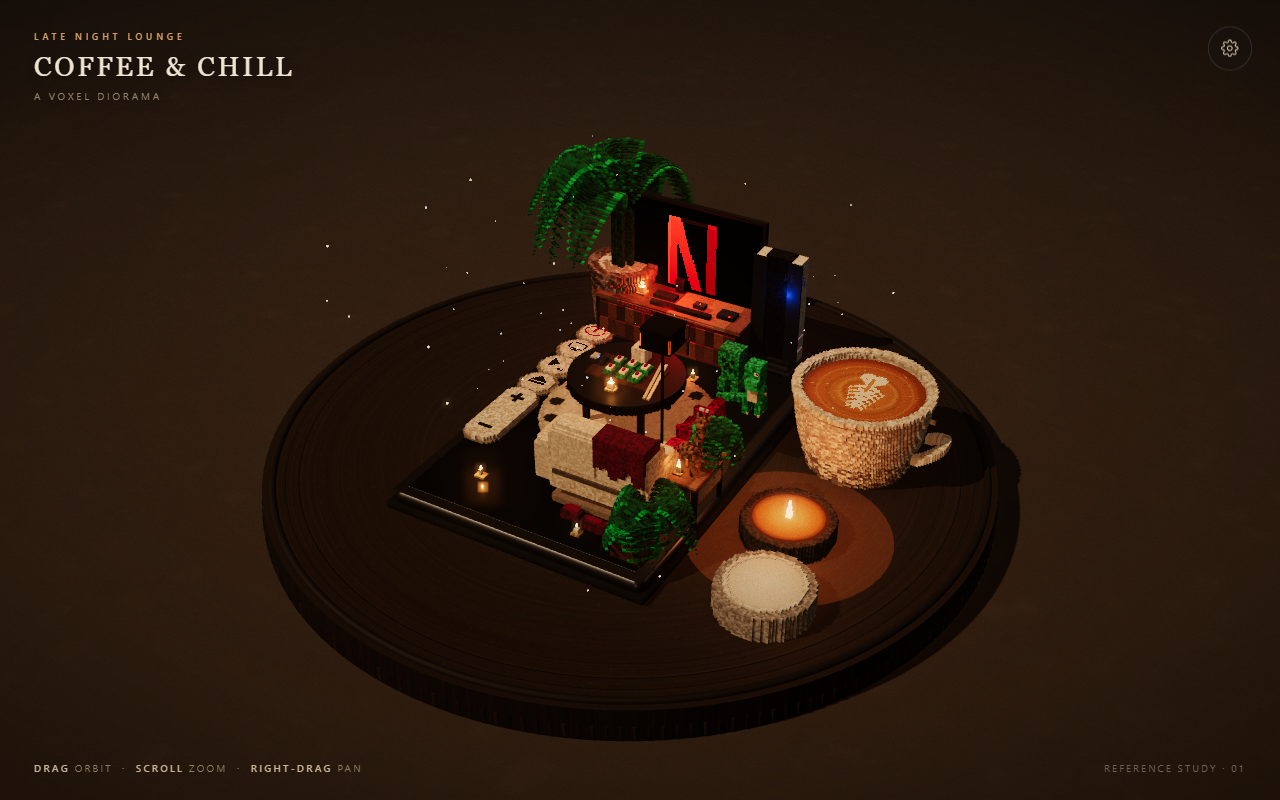
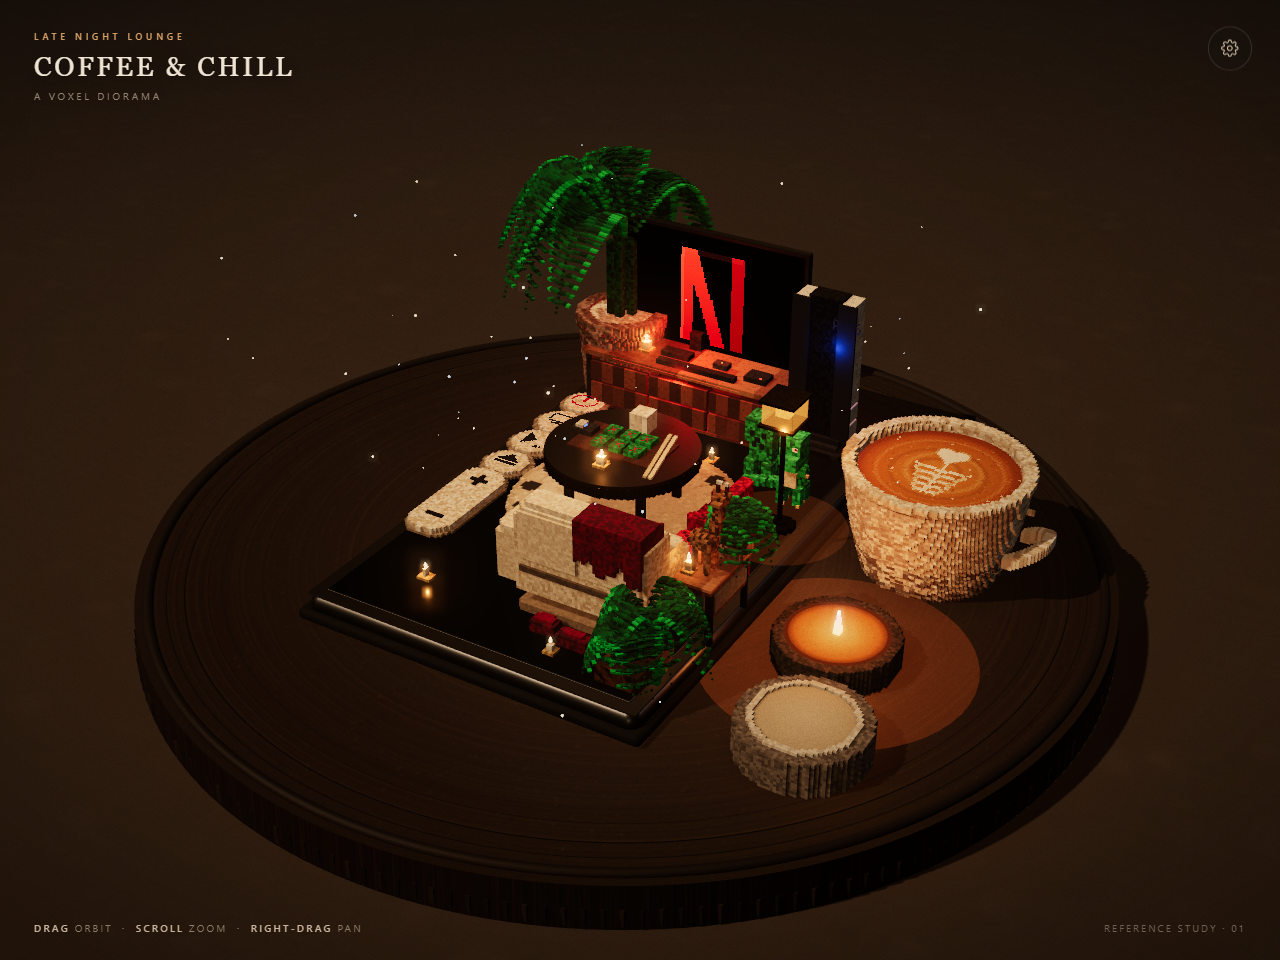
Refine voxel diorama: lantern, cards, latte art, lighting and camera

diff --git a/index.html b/index.html
@@ -1266,44 +1266,53 @@ function buildPS5() {
    Floor lamp with amber lantern
    ------------------------------------------------------------------ */
 function buildLamp() {
-  const x = 2.35, z = 1.25;
+  const x = 4.85, z = -2.1;
+  const headY = 5.6;
   // base
-  voxCyl(x, z, PLATFORM_TOP, PLATFORM_TOP + 0.18, 0.52, { pal: PAL.black, batch: 'metal', shell: true });
-  voxCyl(x, z, PLATFORM_TOP + 0.18, PLATFORM_TOP + 0.34, 0.22, { pal: PAL.black, batch: 'metal', shell: false });
+  voxCyl(x, z, PLATFORM_TOP, PLATFORM_TOP + 0.16, 0.5, { pal: PAL.black, batch: 'metal', shell: true });
+  voxCyl(x, z, PLATFORM_TOP + 0.16, PLATFORM_TOP + 0.3, 0.2, { pal: PAL.black, batch: 'metal', shell: false });
   // pole
-  voxBox(x - 0.075, PLATFORM_TOP + 0.3, z - 0.075, x + 0.075, 6.6, z + 0.075, [0x161513, 0x211e19], { batch: 'metal', shell: false });
+  voxBox(x - 0.065, PLATFORM_TOP + 0.26, z - 0.065, x + 0.065, headY - 0.55, z + 0.065, [0x161513, 0x211e19], { batch: 'metal', shell: false });
   // top bracket
-  voxBox(x - 0.34, 6.55, z - 0.34, x + 0.34, 6.75, z + 0.34, [0x1b1916, 0x28241f], { batch: 'metal', shell: false });
-  const headY = 7.2;
-  // cage frame
+  voxBox(x - 0.28, headY - 0.62, z - 0.28, x + 0.28, headY - 0.45, z + 0.28, [0x1b1916, 0x28241f], { batch: 'metal', shell: false });
+
+  // lantern cage: four corner posts only, leaving the amber panes exposed
   const frame = [0x171410, 0x221d17];
-  for (const side of [-1, 1]) {
-    voxBox(x + side * 0.68 - 0.06, 6.75, z - 0.68, x + side * 0.68 + 0.06, headY + 0.55, z + 0.68, frame, { batch: 'metal', shell: false });
-    voxBox(x - 0.68, 6.75, z + side * 0.68 - 0.06, x + 0.68, headY + 0.55, z + side * 0.68 + 0.06, frame, { batch: 'metal', shell: false });
+  const hw = 0.6;
+  for (const sx of [-1, 1]) {
+    for (const sz of [-1, 1]) {
+      voxBox(x + sx * hw - 0.045, headY - 0.45, z + sz * hw - 0.045, x + sx * hw + 0.045, headY + 0.45, z + sz * hw + 0.045, frame, { batch: 'metal', shell: false });
+    }
   }
-  voxBox(x - 0.78, 6.8, z - 0.78, x + 0.78, 6.9, z + 0.78, [0x1d1913, 0x2a241d], { batch: 'metal', shell: false });
-  voxBox(x - 0.78, headY + 0.5, z - 0.78, x + 0.78, headY + 0.62, z + 0.78, [0x1d1913, 0x2a241d], { batch: 'metal', shell: false });
-  // amber glass sides
-  for (const [ox, oz, w, d] of [[0, -0.72, 1.38, 0.04], [0, 0.72, 1.38, 0.04], [-0.72, 0, 0.04, 1.38], [0.72, 0, 0.04, 1.38]]) {
-    const glass = new THREE.Mesh(new THREE.BoxGeometry(w, 0.6, d),
-      new THREE.MeshPhysicalMaterial({ color: 0xff8b26, transparent: true, opacity: 0.42, roughness: 0.22, metalness: 0.0, emissive: 0xff6714, emissiveIntensity: 0.7, depthWrite: false, envMapIntensity: 0.7 }));
+  voxBox(x - hw - 0.09, headY - 0.52, z - hw - 0.09, x + hw + 0.09, headY - 0.39, z + hw + 0.09, [0x1d1913, 0x2a241d], { batch: 'metal', shell: false });
+  voxBox(x - hw - 0.09, headY + 0.39, z - hw - 0.09, x + hw + 0.09, headY + 0.52, z + hw + 0.09, [0x1d1913, 0x2a241d], { batch: 'metal', shell: false });
+
+  // four panes of glowing amber glass
+  const paneMat = new THREE.MeshBasicMaterial({
+    color: new THREE.Color(0.92, 0.34, 0.055), transparent: true, opacity: 0.52,
+    depthWrite: false, toneMapped: false,
+  });
+  for (const [ox, oz, w, d] of [[0, -hw + .03, hw * 2 - .1, 0.03], [0, hw - .03, hw * 2 - .1, 0.03], [-hw + .03, 0, 0.03, hw * 2 - .1], [hw - .03, 0, 0.03, hw * 2 - .1]]) {
+    const glass = new THREE.Mesh(new THREE.BoxGeometry(w, 0.8, d), paneMat);
     glass.position.set(x + ox, headY + 0.02, z + oz);
     turntable.add(glass);
   }
-  // glowing core + flame-ish element
-  voxBox(x - 0.3, 6.95, z - 0.3, x + 0.3, headY + 0.3, z + 0.3, [0xff9c30], {
-    batch: 'glow', shell: true, colorFn: (px, py, pz) => new THREE.Color(1.7, 0.72, 0.12).multiplyScalar(0.85 + hash(px, py, pz) * 0.4)
+  // hot inner source
+  voxBox(x - 0.24, headY - 0.24, z - 0.24, x + 0.24, headY + 0.3, z + 0.24, [0xff8d20], {
+    batch: 'glow', shell: true,
+    colorFn: (px, py, pz) => new THREE.Color(1.35, 0.52, 0.08).multiplyScalar(0.85 + hash(px, py, pz) * 0.35)
   });
-  addVox('glow', x, 7.25, z, 0.42, 0.5, 0.4, new THREE.Color(2.2, 1.2, 0.35));
-  const light = new THREE.PointLight(0xff9636, 26, 10, 2);
-  light.position.set(x, headY, z);
+  addVox('glow', x, headY + 0.08, z, 0.34, 0.46, 0.34, new THREE.Color(1.7, 0.85, 0.18));
+
+  const light = new THREE.PointLight(0xff9636, 16, 9, 2);
+  light.position.set(x, headY + 0.1, z);
   turntable.add(light);
   lightRig.lamp = light;
-  flicker.push({ light, base: 26, amt: 0.06, speed: 6.1, seed: 2 });
-  // slight pool of light on the table/rug below
+  flicker.push({ light, base: 16, amt: 0.06, speed: 6.1, seed: 2 });
+  // pool of light on the rug below
   const pool = new THREE.Mesh(
-    new THREE.CircleGeometry(3.1, 40),
-    new THREE.MeshBasicMaterial({ color: 0xff8a2e, transparent: true, opacity: 0.06, blending: THREE.AdditiveBlending, depthWrite: false })
+    new THREE.CircleGeometry(2.4, 40),
+    new THREE.MeshBasicMaterial({ color: 0xff8a2e, transparent: true, opacity: 0.05, blending: THREE.AdditiveBlending, depthWrite: false })
   );
   pool.rotation.x = -Math.PI / 2;
   pool.position.set(x, PLATFORM_TOP + 0.012, z);
@@ -1416,6 +1425,17 @@ function buildPokerTable() {
   const boxW = 0.55, boxD = 0.68;
   const startX = cx - (cardCols * (boxW + 0.13)) / 2 + 0.1;
   const startZ = cz - (cardRows * (boxD + 0.12)) / 2 + 0.02;
+  const cardDecal = gridTexture([
+    '............',
+    '..r......r..',
+    '...r....r...',
+    '....rrrr....',
+    '.....rr.....',
+    '....r..r....',
+    '...r....r...',
+    '..r......r..',
+    '............',
+  ], { 'r': 'rgba(176,22,30,0.95)' }, { scale: 4 });
   for (let r0 = 0; r0 < cardRows; r0++) {
     for (let c0 = 0; c0 < cardCols; c0++) {
       const bx = startX + c0 * (boxW + 0.13);
@@ -1424,24 +1444,17 @@ function buildPokerTable() {
         batch: 'matte', shell: true, seed: c0 + r0 * 3,
         colorFn: (x, y, z) => palColor([0x0f6b27, 0x148232, 0x0b571f, 0x1a9b3e], x, y, z, c0 + r0 * 3, 0.16)
       });
-      // card face: cream border + red centre, one voxel proud of the green box
-      voxBox(bx + 0.12, topY + 0.3, bz + 0.12, bx + boxW - 0.12, topY + 0.4, bz + boxD - 0.12, [0xece4d3, 0xdfd5c0], {
-        batch: 'matte', shell: true, seed: 9,
-        colorFn: (x, y, z) => palColor([0xece4d3, 0xdfd5c0, 0xf6efdf], x, y, z, 9, 0.06)
-      });
-      voxBox(bx + 0.22, topY + 0.4, bz + 0.25, bx + boxW - 0.22, topY + 0.5, bz + boxD - 0.25, [0xb51a20, 0xa8141a], { batch: 'matte', shell: false });
-      // suit pips
-      addVox('matte', bx + 0.28, topY + 0.51, bz + 0.31, 0.055, 0.02, 0.055, new THREE.Color(0x8f0f16));
-      addVox('matte', bx + 0.28, topY + 0.51, bz + boxD - 0.31, 0.055, 0.02, 0.055, new THREE.Color(0x8f0f16));
+      // card face printed directly on the green box top
+      topDecal(cardDecal, bx + boxW * 0.5, topY + 0.306, bz + boxD * 0.5, boxW * 0.72, boxD * 0.72, 0, { basic: false });
     }
   }
 
-  // tissue cube
-  voxBox(cx - 0.35, topY + 0.1, cz - 1.62, cx + 0.38, topY + 0.79, cz - 0.9, [0xe4d7c0, 0xdccbb0, 0xeee2cf], {
+  // tissue box
+  voxBox(cx - 0.28, topY + 0.1, cz - 1.52, cx + 0.28, topY + 0.62, cz - 0.98, [0xcab991, 0xbeab83, 0xd6c7a4], {
     batch: 'matte', shell: true, seed: 8,
-    colorFn: woodColor([0xe4d7c0, 0xdccbb0, 0xeee2cf], 'x', 0.3, 5)
+    colorFn: woodColor([0xcab991, 0xbeab83, 0xd6c7a4], 'x', 0.3, 5)
   });
-  voxBox(cx - 0.22, topY + 0.79, cz - 1.46, cx + 0.24, topY + 0.84, cz - 1.08, [0x9fc3bd, 0x8db5ae], { batch: 'matte', shell: false });
+  voxBox(cx - 0.16, topY + 0.62, cz - 1.38, cx + 0.18, topY + 0.66, cz - 1.1, [0x7f9d96, 0x6f8d86], { batch: 'matte', shell: false });
 
   // cue sticks
   for (let i = 0; i < 2; i++) {
@@ -1980,7 +1993,10 @@ function buildCoffee() {
       if (flute % 2 === 0) c.multiplyScalar(0.955);
       const t = (y - y0) / 3.85;
       const stain = hash(flute * 3.1, Math.floor(y * 16), 8);
+      const drip = hash(flute * 7.7, 4.2, 1.1);
       if (stain > 0.78 - t * 0.34) c.lerp(new THREE.Color(0x8d5a33), 0.38 + (1 - t) * 0.34);
+      if (t < 0.42 && hash(flute, 9) > 0.5) c.lerp(new THREE.Color(0x6b3f22), 0.28 * (1 - t / 0.42));
+      if (drip > 0.86 && t > 0.5 && t < 0.98) c.lerp(new THREE.Color(0x7a4a26), 0.38 * Math.sin((t - 0.5) * Math.PI));
       if (t < 0.3 && stain > 0.48) c.lerp(new THREE.Color(0x4a2a17), 0.5 + (1 - t) * 0.15);
       if (t < 0.08) c.lerp(new THREE.Color(0x2c1a0e), 0.5);
       return c;
@@ -2021,40 +2037,44 @@ function buildCoffee() {
     x.fillStyle = r3() < .5 ? `rgba(255,226,170,${r3() * .22})` : `rgba(92,42,9,${r3() * .24})`;
     x.fillRect(Math.floor(r3() * 64), Math.floor(r3() * 64), 1, 1);
   }
+  // foam heart at the top
+  x.fillStyle = '#f7ecd6';
+  x.beginPath();
+  x.arc(29, 17, 3.4, 0, Math.PI * 2);
+  x.arc(35, 17, 3.4, 0, Math.PI * 2);
+  x.fill();
+  x.beginPath();
+  x.moveTo(25.8, 18.5); x.lineTo(38.2, 18.5); x.lineTo(32, 25); x.closePath();
+  x.fill();
   // central stem of the rosette
-  x.fillStyle = '#f4e5c8';
-  x.fillRect(31, 21, 2, 27);
-  x.fillRect(30, 20, 4, 2);
-  // symmetric cream leaf strokes curling out from the stem
-  for (let i = 0; i < 6; i++) {
-    const yy = 26 + i * 3.6;
-    const w = 9.5 - i * 1.05;
+  x.fillStyle = '#f5e7cb';
+  x.fillRect(31, 24, 2, 24);
+  x.fillStyle = '#d59a55';
+  x.fillRect(31, 25, 1, 19);
+  // separate curved fronds, with coffee visible between each one
+  for (let i = 0; i < 5; i++) {
+    const yy = 31 + i * 4.3;
+    const w = 10.2 - i * 1.35;
     for (const s of [-1, 1]) {
       for (let j = 1; j <= Math.floor(w); j++) {
         const px = 32 + s * j;
-        const py = Math.round(yy + (j * j) / (w * 2.6));
-        x.fillStyle = j > w * .72 ? '#ead6b0' : '#f7ebd2';
+        const arc = Math.round(Math.sin((j / w) * Math.PI) * 2.4);
+        const py = yy - arc;
+        x.fillStyle = j > w * .68 ? '#e7d1a8' : '#f8eed9';
         x.fillRect(px, py, 1, 2);
-        if (j < w * .55) x.fillRect(px, py - 1, 1, 1);
       }
-      // small curled tip
-      x.fillRect(32 + s * Math.floor(w), Math.round(yy + w * .3), 1, 3);
+      // curled tip
+      x.fillStyle = '#f0dfbf';
+      x.fillRect(32 + s * Math.floor(w), yy - 2, 2, 1);
+      x.fillRect(32 + s * Math.floor(w + .8), yy - 3, 1, 2);
     }
   }
-  // foam heart at the top, pierced by the stem
-  x.fillStyle = '#f8eed8';
-  x.beginPath();
-  x.arc(29, 18, 4.2, 0, Math.PI * 2);
-  x.arc(35, 18, 4.2, 0, Math.PI * 2);
-  x.fill();
-  x.beginPath();
-  x.moveTo(25, 19.5); x.lineTo(39, 19.5); x.lineTo(32, 27); x.closePath();
-  x.fill();
-  x.fillStyle = '#d59a55';
-  x.fillRect(31, 18, 2, 13);
-  // final cream flecks
-  for (let i = 0; i < 45; i++) {
-    if (r3() < .55) x.fillRect(Math.floor(r3() * 64), Math.floor(r3() * 64), 1, 1);
+  // a little extra foam texture
+  for (let i = 0; i < 80; i++) {
+    if (r3() < .45) {
+      x.fillStyle = r3() < .5 ? 'rgba(248,238,217,0.65)' : 'rgba(216,160,92,0.4)';
+      x.fillRect(Math.floor(r3() * 64), Math.floor(r3() * 64), 1, 1);
+    }
   }
   const tex = new THREE.CanvasTexture(c);
   tex.colorSpace = THREE.SRGBColorSpace;
@@ -2176,12 +2196,12 @@ function buildWaxBowl() {
   const h = 1.25;
   // fluted pale stone vessel
   voxCyl(cx, cz, 0.02, h, 2.02, {
-    pal: [0x9b8c7b, 0xac9d8b, 0x8b7c6c, 0xbcae9c, 0x7e7061], batch: 'matte', shell: true, wall: 0.38, seed: 16, jitter: 0.16,
+    pal: [0x72665a, 0x7f7264, 0x63584c, 0x8b7e6e, 0x574d42], batch: 'matte', shell: true, wall: 0.38, seed: 16, jitter: 0.14,
     colorFn: (x, y, z) => {
       const ang = Math.atan2(z - cz, x - cx);
-      const c = palColor([0x9b8c7b, 0xac9d8b, 0x8b7c6c, 0xbcae9c], x, y, z, 16, 0.18);
+      const c = palColor([0x72665a, 0x7f7264, 0x63584c, 0x8b7e6e], x, y, z, 16, 0.16);
       const flute = Math.floor((ang + Math.PI) / (Math.PI * 2) * 58);
-      if (flute % 2 === 0) c.multiplyScalar(0.93);
+      if (flute % 2 === 0) c.multiplyScalar(0.9);
       return c;
     }
   });
@@ -2202,17 +2222,25 @@ function buildWaxBowl() {
   const wtex = new THREE.CanvasTexture(wc);
   wtex.colorSpace = THREE.SRGBColorSpace;
   const wax = new THREE.Mesh(
-    new THREE.CircleGeometry(1.6, 64),
-    new THREE.MeshStandardMaterial({ map: wtex, roughness: 0.82, metalness: 0.0, envMapIntensity: 0.2 })
+    new THREE.CircleGeometry(1.54, 64),
+    new THREE.MeshStandardMaterial({ map: wtex, roughness: 0.86, metalness: 0.0, envMapIntensity: 0.15, color: 0xd9cdb8 })
   );
   wax.rotation.x = -Math.PI / 2;
-  wax.position.set(cx, h + 0.015, cz);
+  wax.position.set(cx, h - 0.04, cz);
   wax.receiveShadow = true;
   turntable.add(wax);
   // a thin voxel lip around the wax
-  voxCyl(cx, cz, h - 0.06, h + 0.035, 1.66, {
-    pal: [0xe3d7c1, 0xd8cab2, 0xeee3cf], batch: 'matte', shell: true, wall: 0.12, bottom: false, jitter: 0.05
+  voxCyl(cx, cz, h - 0.1, h + 0.02, 1.64, {
+    pal: [0xd6c9b2, 0xc9bba3, 0xe2d6c1], batch: 'matte', shell: true, wall: 0.12, bottom: false, jitter: 0.05
   });
+  // inner shadow line
+  const inner = new THREE.Mesh(
+    new THREE.RingGeometry(1.5, 1.62, 56),
+    new THREE.MeshBasicMaterial({ color: 0x2b231b, transparent: true, opacity: 0.5 })
+  );
+  inner.rotation.x = -Math.PI / 2;
+  inner.position.set(cx, h - 0.035, cz);
+  turntable.add(inner);
   blobShadow(cx, cz, 2.6, 0.03, 0.5);
 }
 
@@ -2300,11 +2328,11 @@ function fitCamera(instant = false) {
   const vFov = THREE.MathUtils.degToRad(camera.fov);
   const hFov = 2 * Math.atan(Math.tan(vFov / 2) * aspect);
   const half = Math.min(vFov, hFov) / 2;
-  const radius = 17.4;
+  const radius = 16.6;
   const dist = Math.min(128, (radius / Math.sin(half)) * 0.95);
-  const target = new THREE.Vector3(0.55, 2.65, 0.05);
+  const target = new THREE.Vector3(0.55, 2.7, 0.05);
   const az = THREE.MathUtils.degToRad(32);
-  const el = THREE.MathUtils.degToRad(32);
+  const el = THREE.MathUtils.degToRad(31);
   const dir = new THREE.Vector3(
     Math.sin(az) * Math.cos(el),
     Math.sin(el),
@@ -2356,7 +2384,7 @@ function setupUI() {
     lightRig.tv.intensity = 34 * v;
     lightRig.under.intensity = 9 * v;
     lightRig.ps.intensity = 8 * v;
-    lightRig.lamp.intensity = 26 * v;
+    lightRig.lamp.intensity = 16 * v;
     lightRig.candle.intensity = 30 * v;
   });
   bindSlider('bloom', v => { bloomPass.strength = v; });
